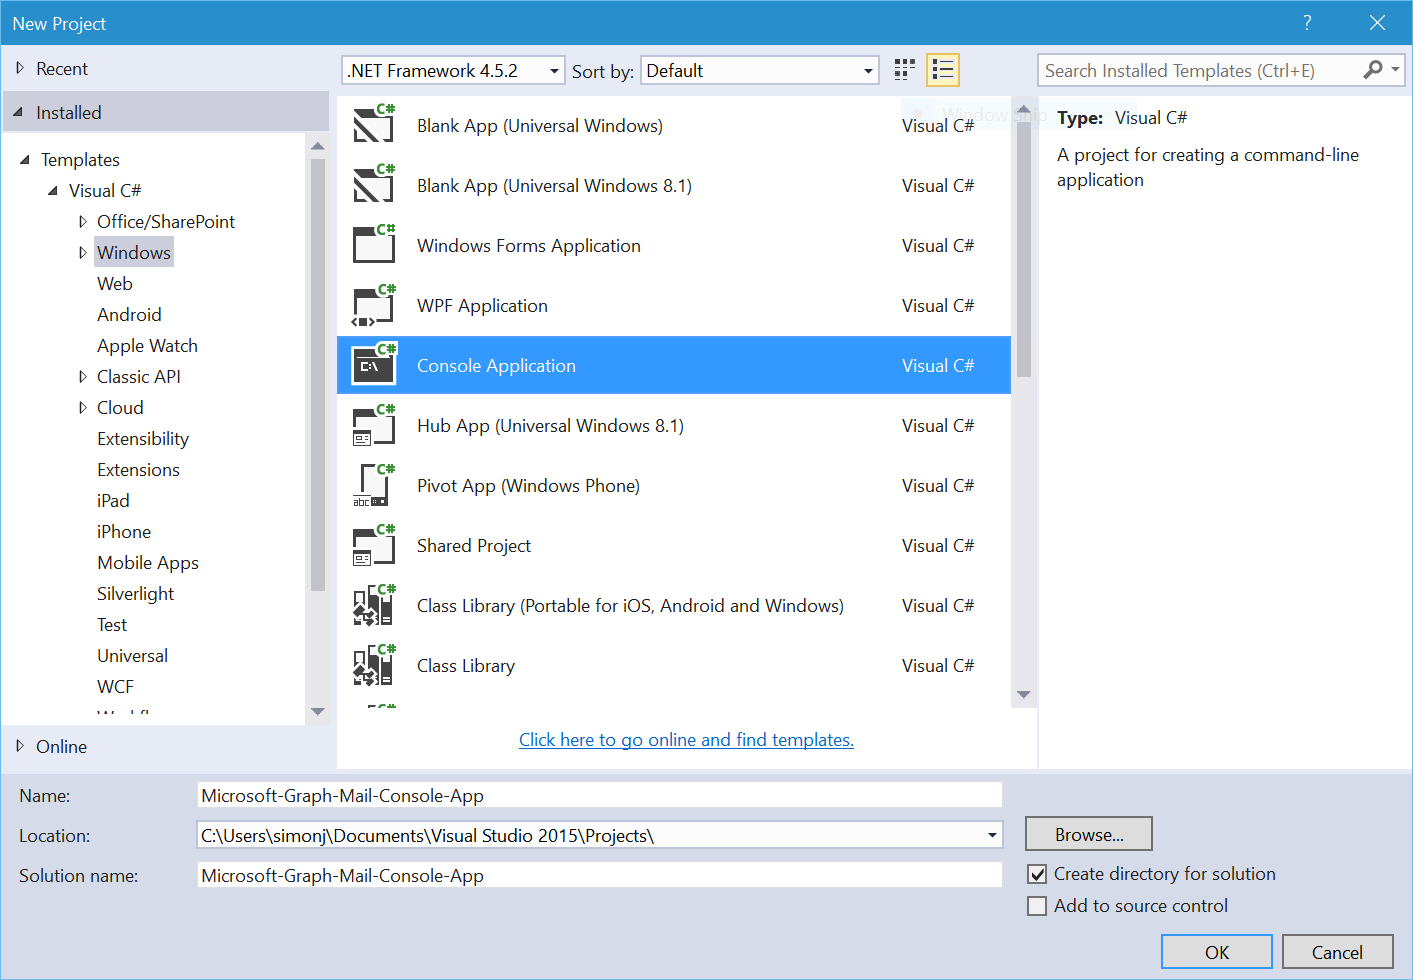
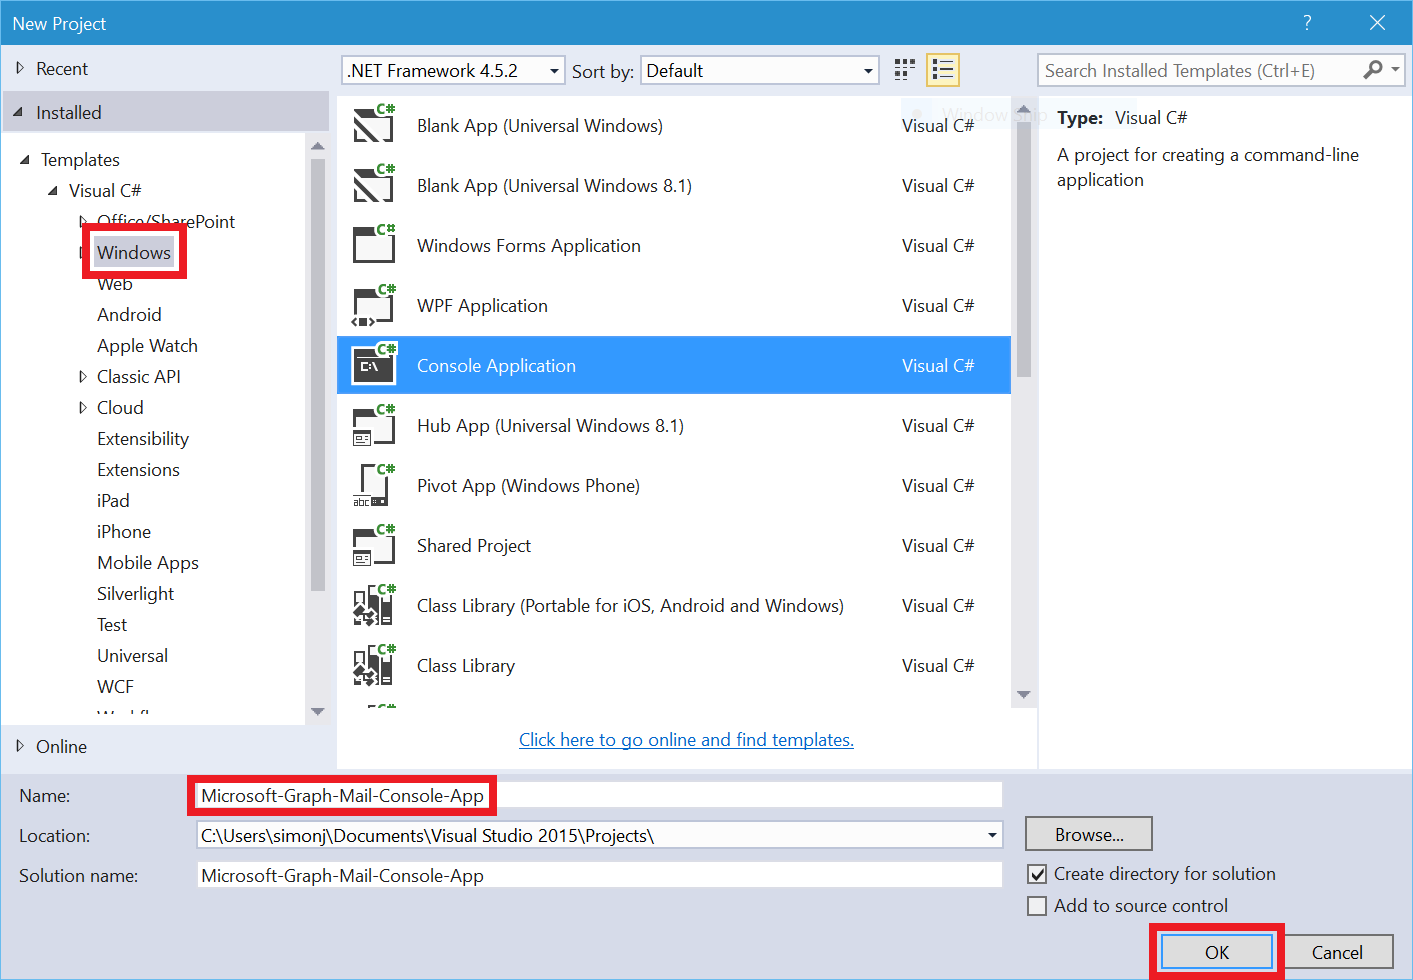
Microsoft-Graph-Mail-Console-App: Updated README.md

diff --git a/Microsoft-Graph-Mail-Console-App/README.md b/Microsoft-Graph-Mail-Console-App/README.md
@@ -42,8 +42,26 @@ Version  | Date | Comments
 ----------
 
 # Exercises #
-#### Exercise 1.1: Create the project ####
-The first thing that we need to do is to create the project itself. Make sure that you have installed all of the required prerequisites before launching Visual Studio 2015. 
+#### Exercise 1.1: Register the application in Azure AD ####
+Make sure that you have all of the required prerequisites before getting into the exercise.
+
+1. Head to the current Azure portal and sign in with a user in your Office 365 Developer Tenant at: <https://manage.windowsazure.com/>
+2. In the left menu, click on **Active Directory** to list your Azure AD.  
+   ![](https://raw.githubusercontent.com/simonjaeger/OfficeDev-HOL/master/Microsoft-Graph-Mail-Console-App/Images/AAD.png)
+
+3. Click on your Azure AD in the **Directory** tab section.  
+   ![](https://raw.githubusercontent.com/simonjaeger/OfficeDev-HOL/master/Microsoft-Graph-Mail-Console-App/Images/SelectTenant.png)
+4. Click on **Applications** in the tab menu. 
+5. Click on **Add** at the bottom to register a new Azure AD application.   
+   ![](https://raw.githubusercontent.com/simonjaeger/OfficeDev-HOL/master/Microsoft-Graph-Mail-Console-App/Images/AddApp.png)
+6. Click on **Add an application my organization is developing** in the dialog that shows up.
+7. Name your application **"Microsoft-Graph-Mail-Console-App"** and select **Native Client Application**. Proceed by clicking the continue button down at the bottom.   
+   ![](https://raw.githubusercontent.com/simonjaeger/OfficeDev-HOL/master/Microsoft-Graph-Mail-Console-App/Images/AddApp2.png)
+8. Enter **"https://Microsoft-Graph-Mail-Console-App/"** as the **Redirect URI**. Click on the check button down below to complete the wizard.   
+   ![](https://raw.githubusercontent.com/simonjaeger/OfficeDev-HOL/master/Microsoft-Graph-Mail-Console-App/Images/AddApp3.png)
+
+#### Exercise 2.1: Create the project ####
+Now let's create the project itself and add the basic structure.
 
 1. Click **File**, **New** and finally the **Project** button.
 2. In **Templates**, select **Visual C#**, **Windows** and then choose **Console Application**. 
